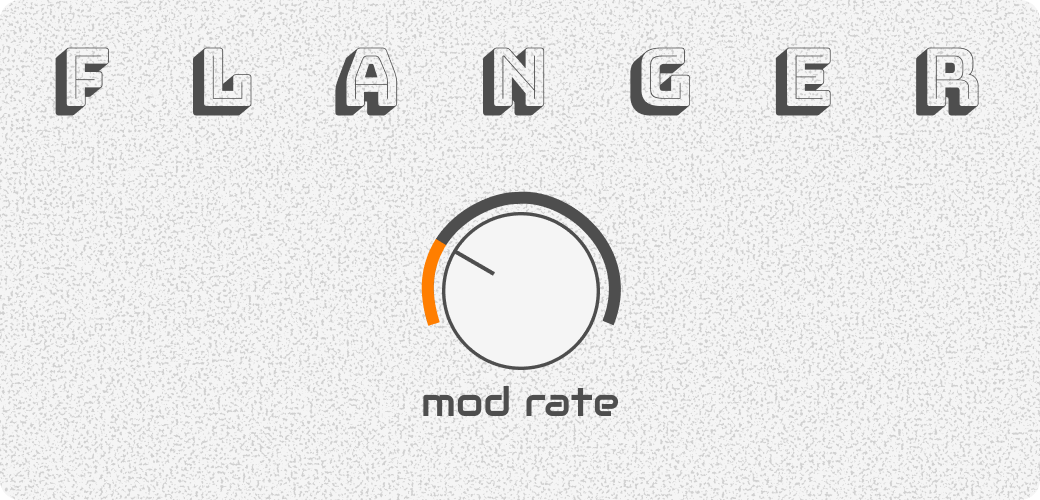
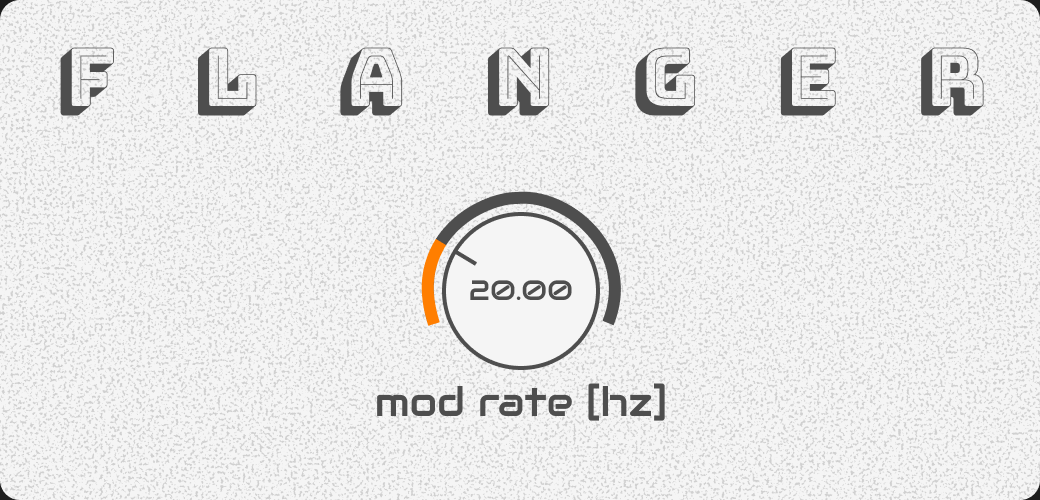
docs: update Flanger UI and add to README

diff --git a/README.md b/README.md
@@ -15,7 +15,7 @@ Throughout the workshop, you will build
 * a flanger effect
 * a flanger effect app/plugin
 
-<iframe style="border: 1px solid rgba(0, 0, 0, 0.1);" width="800" height="450" src="https://embed.figma.com/design/knuE1YOpeBarbBjHkL6Tc0/Workshop-Flanger-Plugin-UI?embed-host=share" allowfullscreen></iframe>
+[](docs/slides/img/FlangerUI.png)
 
 ## 🔨 Building the project
 
